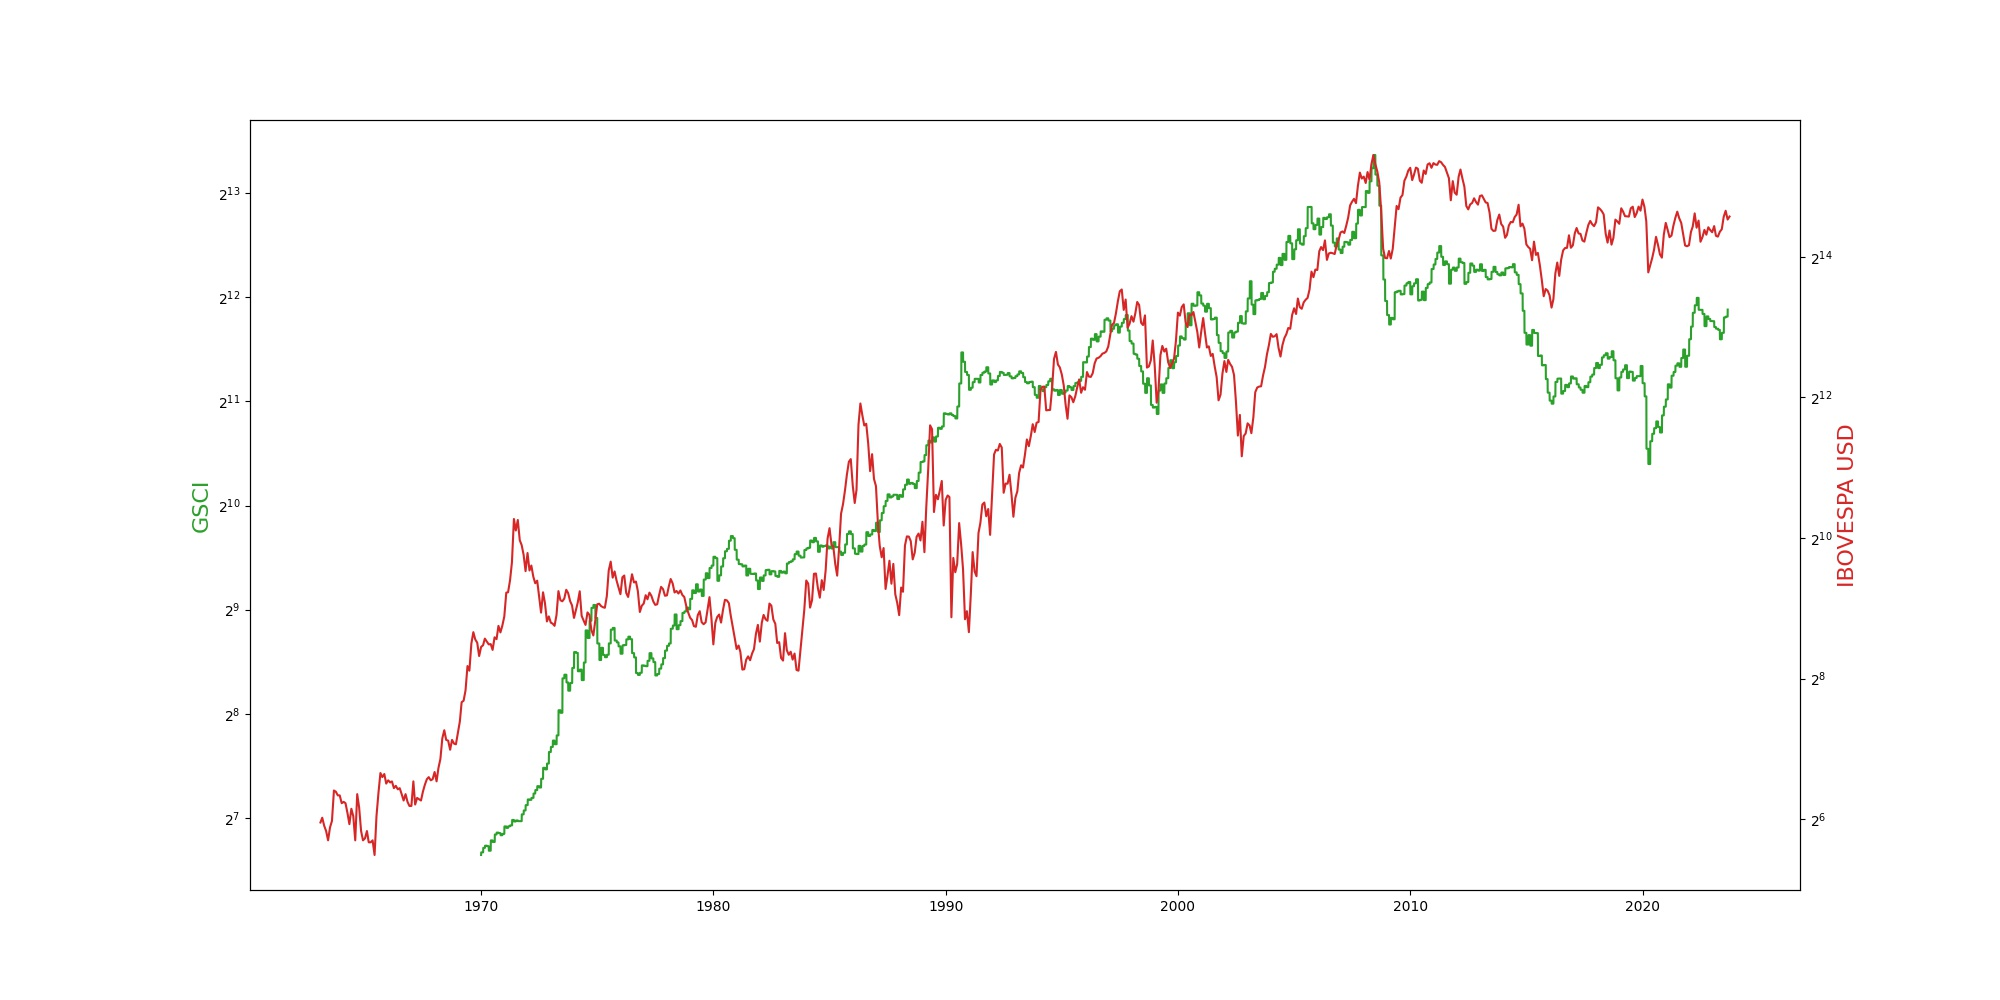
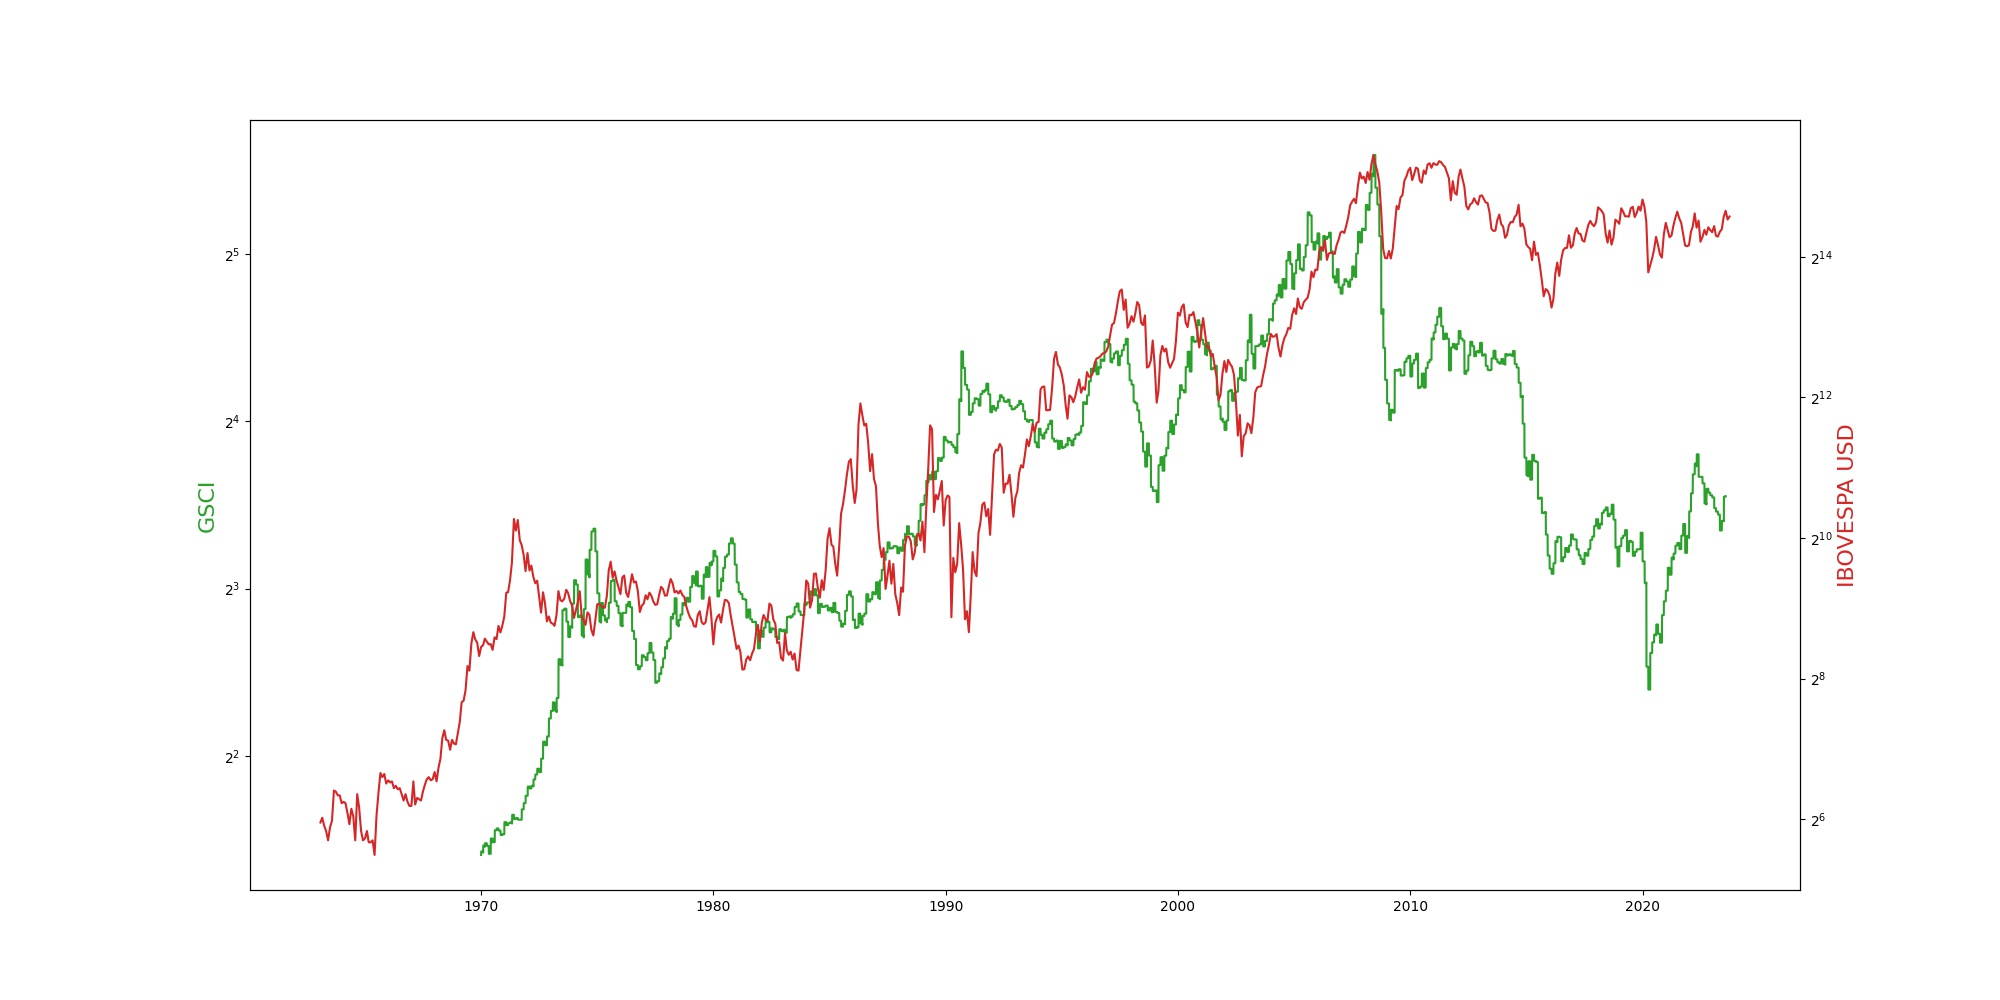
adds ibov vs gsci

diff --git a/data.py b/data.py
@@ -1,0 +1,178 @@
+import json
+from datetime import datetime
+from typing import List
+
+import numpy as np
+import pandas as pd
+import yfinance as yf
+import cpi
+from scipy.signal import find_peaks
+from benedict import benedict as bdict
+from sklearn.linear_model import LinearRegression
+
+from common import get_index_average
+
+
+def get_cpi_index(update=False) -> pd.Series:
+    df = pd.read_csv('data/cpi.csv', skiprows=1)
+    df = df.drop(['HALF1', 'HALF2'], axis=1)
+    df = df.melt(id_vars=['Year'], value_vars=df.columns[1:]).rename(columns={'variable': 'month'})
+
+    df['Date'] = df.apply(lambda r: f'{r.Year}-{r.month}-01', axis=1)
+    df['Date'] = pd.to_datetime(df['Date'])
+    df['value'] = pd.to_numeric(df['value'], errors='coerce')
+
+    df = df.set_index('Date')
+    df = df.sort_index()
+    df = df.dropna()
+
+    cpi_index = pd.Series(index=df.index, data=df['value'])
+    cpi_index = cpi_index.reindex(index=pd.date_range(start=cpi_index.index[0], end=cpi_index.index[-1], freq='D'))
+    cpi_index = cpi_index.ffill()
+
+    return cpi_index
+
+
+# if __name__ == '__main__':
+#     cpi_index = get_cpi_index()
+
+
+def get_sp500() -> pd.Series:
+    sp500 = yf.Ticker('^GSPC').history('max')
+    return pd.Series(data=sp500['Close'], index=sp500.index)
+
+
+def parse_datetime(timestamp):
+    return datetime.utcfromtimestamp(timestamp / 1000)
+
+
+def get_gdp() -> pd.Series:
+    with open('data/gdp.json', 'r') as fd:
+        df = pd.DataFrame(json.load(fd), columns=['date', 'value'])
+        df['date'] = df['date'].apply(parse_datetime)
+        df = df.set_index('date').squeeze()
+    return df
+
+
+def get_wilshire5000() -> pd.Series:
+    with open('data/wilshire5000.json', 'r') as fd:
+        df = pd.DataFrame(json.load(fd), columns=['date', 'value'])
+        df['date'] = df['date'].apply(parse_datetime)
+        df = df.set_index('date').squeeze()
+    return df
+
+
+def get_buffet_indicator_norm() -> pd.Series:
+    wilshire5000 = get_wilshire5000()
+    gdp = get_gdp()
+    buffet_indicator = wilshire5000 / gdp
+    buffet_indicator_avg = get_index_average(buffet_indicator)
+    buffet_indicator_norm = buffet_indicator / buffet_indicator_avg
+    return buffet_indicator_norm
+
+
+def _read_ibov_df(filename: str) -> pd.DataFrame:
+    data_points = []
+    xml = bdict.from_xml(filename)
+    for data_point in xml['Result.Poster.Serie.barras.B']:
+        data_points.append({
+            'date': datetime.strptime(data_point['@d'], '%Y-%m-%d'),
+            'close': data_point['@C']
+        })
+    df = pd.DataFrame(data_points)
+    df['close'] = df['close'].astype(float)
+    df = df.sort_values('date')
+    return df
+
+
+def _find_tops_and_bottom(series: pd.Series, type_: str) -> List:
+    if type_ == 'top':
+        peaks, _ = find_peaks(series, distance=120)
+        peaks = peaks[:-1]
+    elif type_ == 'bottom':
+        peaks, _ = find_peaks(-series, distance=120)
+    else:
+        raise ValueError(f'Unknown type {type_}')
+    return peaks
+
+
+def _get_trend(x: List, series: pd.Series) -> np.ndarray:
+    series_log = np.log(series)
+
+    reg = LinearRegression()
+    reg.fit(X=np.array(x).reshape((-1, 1)), y=series_log[x])
+
+    trend = reg.predict(np.array(range(len(series_log))).reshape((len(series_log), 1)))
+
+    return pd.Series(data=np.exp(trend), index=series.index)
+
+
+def _get_trend_line(series: pd.Series, _type: str) -> pd.Series:
+    if _type == 'middle':
+        tops = _find_tops_and_bottom(series, type_='top')
+        bottoms = _find_tops_and_bottom(series, type_='bottom')
+
+        top_line_log = np.log(_get_trend(tops, series))
+        bottom_line_log = np.log(_get_trend(bottoms, series))
+
+        trend_middle_log = (top_line_log - bottom_line_log) / 2 + bottom_line_log
+
+        return np.exp(trend_middle_log)
+    else:
+        points = _find_tops_and_bottom(series, type_=_type)
+
+        trend_line = _get_trend(points, series)
+
+        return trend_line
+
+
+def get_ibovusd() -> pd.Series:
+    ibov_df = pd.DataFrame(
+        index=pd.date_range(
+            start=datetime(1963, 1, 1),
+            end=datetime.today(),
+            freq='1D'
+        )
+    )
+
+    usd_brl_df = yf.Ticker('USDBRL=X').history(period='max')
+    usd_brl_df.columns = [f'USDBRL_{c}' for c in usd_brl_df.columns]
+    ibov_df = ibov_df.merge(usd_brl_df, how='left', left_index=True, right_index=True)
+
+    ibov_yahoo_df = yf.Ticker('^BVSP').history(period='max')
+    ibov_yahoo_df.columns = [f'IBOV_YAHOO_{c}' for c in ibov_yahoo_df.columns]
+    ibov_df = ibov_df.merge(ibov_yahoo_df, how='left', left_index=True, right_index=True)
+    ibov_df['IBOV_YAHOO_Close'] = ibov_df['IBOV_YAHOO_Close'] / ibov_df['USDBRL_Close']
+    ibov_df = ibov_df[['IBOV_YAHOO_Close']]
+
+    ibov_enfoque_df = _read_ibov_df('data/ibovusd1963.xml')
+    ibov_enfoque_df.set_index('date', inplace=True)
+    ibov_enfoque_df.columns = [f'IBOV_ENFOQUE_{c}' for c in ibov_enfoque_df.columns]
+    ibov_df = ibov_df.merge(ibov_enfoque_df, how='left', left_index=True, right_index=True)
+
+    ibov_df['close'] = ibov_df['IBOV_ENFOQUE_close'].combine_first(ibov_df['IBOV_YAHOO_Close'])
+    ibov_df = ibov_df[['close']]
+    ibov_df = ibov_df.dropna()
+    ibov_df = ibov_df.resample('M').last()
+    ibov_df = ibov_df.reset_index()
+    ibov_df = ibov_df.set_index('index')
+    ibov_df = ibov_df.squeeze()
+
+    return ibov_df
+
+
+def get_gsci() -> pd.Series:
+    with open('data/gsci.json') as fd:
+        gsci = json.load(fd)
+        dates = [x['date'] for x in gsci]
+        values = [x['y'] for x in gsci]
+
+    df = pd.DataFrame({'date': dates, 'value': values})
+    df['date'] = pd.to_datetime(df['date'])
+    df = df.set_index('date')
+
+    gsci = pd.Series(df['value'], df.index)
+    gsci = gsci.reindex(pd.date_range(gsci.index[0], gsci.index[-1], freq='D'))
+    gsci = gsci.ffill()
+
+    return gsci

diff --git a/main.py b/main.py
@@ -62,9 +62,11 @@ if __name__ == '__main__':
     plt.clf()
     fig, ax1 = plt.subplots(figsize=(20, 10))
     color = 'tab:green'
-    text = 'GSCI'
+    text = 'GSCI / CPI'
     gsci = get_gsci()
-    ax1.plot(gsci.index, gsci, color=color, label=text)
+    cpi_index = get_cpi_index()
+    cpi_index = cpi_index.reindex(gsci.index)
+    ax1.plot(gsci.index, gsci / cpi_index, color=color, label=text)
     ax1.set_ylabel(text, color=color, fontsize=font_size)
     ax1.set_yscale('log', base=2)
 
